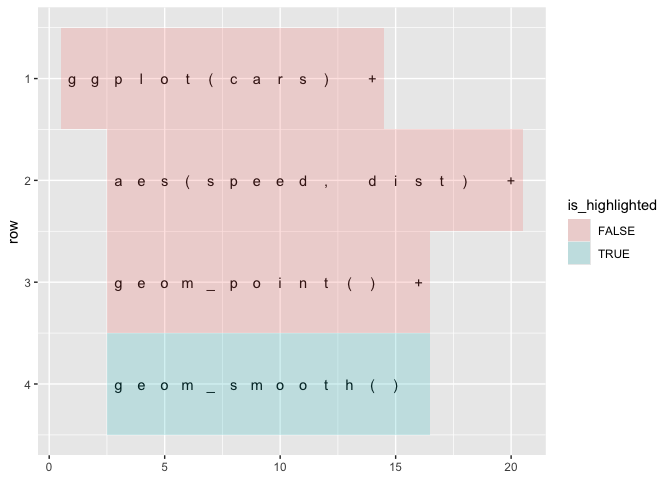
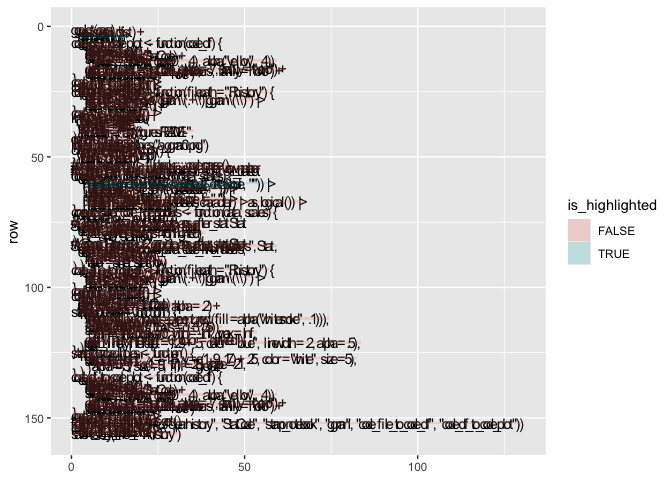
using temp file in ggram

diff --git a/README.md b/README.md
@@ -62,6 +62,10 @@ Notes: ggram::ggram() fails given the string replacement in the current
 implementation…
 
 ``` r
+library(tidyverse)
+```
+
+``` r
 clearhistory <- function() {
   
   temp <- tempfile()
@@ -79,8 +83,9 @@ clearhistory <- function() {
 
 # readLines(temp) |> flipbookr:::code_parse()
 
-#' @importFrom dplyr mutate group_by filter
-#' @importFrom stringr str_remove str_split
+#' @importFrom dplyr mutate group_by filter row_number
+#' @importFrom stringr str_remove str_split str_detect
+#' @importFrom tidyr unnest
 
 compute_panel_code <- function(data, scales){
   
@@ -141,8 +146,8 @@ code_file_to_code_df <- function(filepath = ".Rhistory"){
 ``` r
 code_file_to_code_df() |> 
   compute_panel_code()
-#> # A tibble: 60 × 7
-#> # Groups:   row [4]
+#> # A tibble: 4,058 × 7
+#> # Groups:   row [155]
 #>    code    row is_highlighted     x is_character is_code label
 #>    <chr> <int> <lgl>          <int> <lgl>        <lgl>   <chr>
 #>  1 g         1 FALSE              1 TRUE         TRUE    g    
@@ -155,7 +160,7 @@ code_file_to_code_df() |>
 #>  8 c         1 FALSE              8 TRUE         TRUE    c    
 #>  9 a         1 FALSE              9 TRUE         TRUE    a    
 #> 10 r         1 FALSE             10 TRUE         TRUE    r    
-#> # ℹ 50 more rows
+#> # ℹ 4,048 more rows
 
 code_file_to_code_df() |>
   ggplot() + 
@@ -165,7 +170,7 @@ code_file_to_code_df() |>
   scale_y_reverse()
 ```
 
-<img src="man/figures/README-unnamed-chunk-5-1.png" width="100%" />
+<img src="man/figures/README-unnamed-chunk-6-1.png" width="100%" />
 
 # `stamp_notebook`
 
@@ -202,18 +207,11 @@ stamp_punched_holes <- function(){
 }
 ```
 
-## ggram with patchwork
-
 ``` r
-#' @export
-ggram <- function(title = NULL, widths = c(1,1), ...){
-  
-  temp <- tempfile()
-  savehistory(file = ".Rhistory")
 
-  plot <- last_plot()
+code_df_to_code_plot <- function(code_df){
   
-  code_file_to_code_df() |>
+  code_df |>
   ggplot() +
     aes(code = code) +
     stamp_notebook() +
@@ -223,9 +221,32 @@ ggram <- function(title = NULL, widths = c(1,1), ...){
     geom_text(stat = StatCode, alpha = .7, family = "mono") +
     geom_text(stat = StatCodeLineNumbers, family = "mono") +
     theme(legend.position = "none") + 
-    stamp_punched_holes() +
-    NULL ->
-  code_plot
+    stamp_punched_holes()
+  
+}
+```
+
+``` r
+code_file_to_code_df() |>
+  code_df_to_code_plot()
+```
+
+<img src="man/figures/README-unnamed-chunk-7-1.png" width="100%" />
+
+## ggram with patchwork
+
+``` r
+#' @export
+ggram <- function(title = NULL, widths = c(1,1), ...){
+  
+  temp <- tempfile()
+  savehistory(file = temp)
+
+  plot <- last_plot()
+  
+  code_plot <- code_file_to_code_df(temp) |>
+    code_df_to_code_plot()
+  
   
   code_plot + plot + patchwork::plot_layout(widths = widths) +
     patchwork::plot_annotation(title = title, ...) & 
@@ -265,10 +286,11 @@ usethis::use_package("patchwork")
 usethis::use_package("stringr")
 usethis::use_package("styler")
 usethis::use_package("dplyr")
+usethis::use_package("tidyr")
 
 
 # knitrExtra::chunk_names_get()
-knitrExtra::chunk_to_dir(c("clearhistory", "StatCode", "stamp_notebook", "ggram", "code_file_to_code_df"))
+knitrExtra::chunk_to_dir(c("clearhistory", "StatCode", "stamp_notebook", "ggram", "code_file_to_code_df", "code_df_to_code_plot"))
 ```
 
 ``` r
